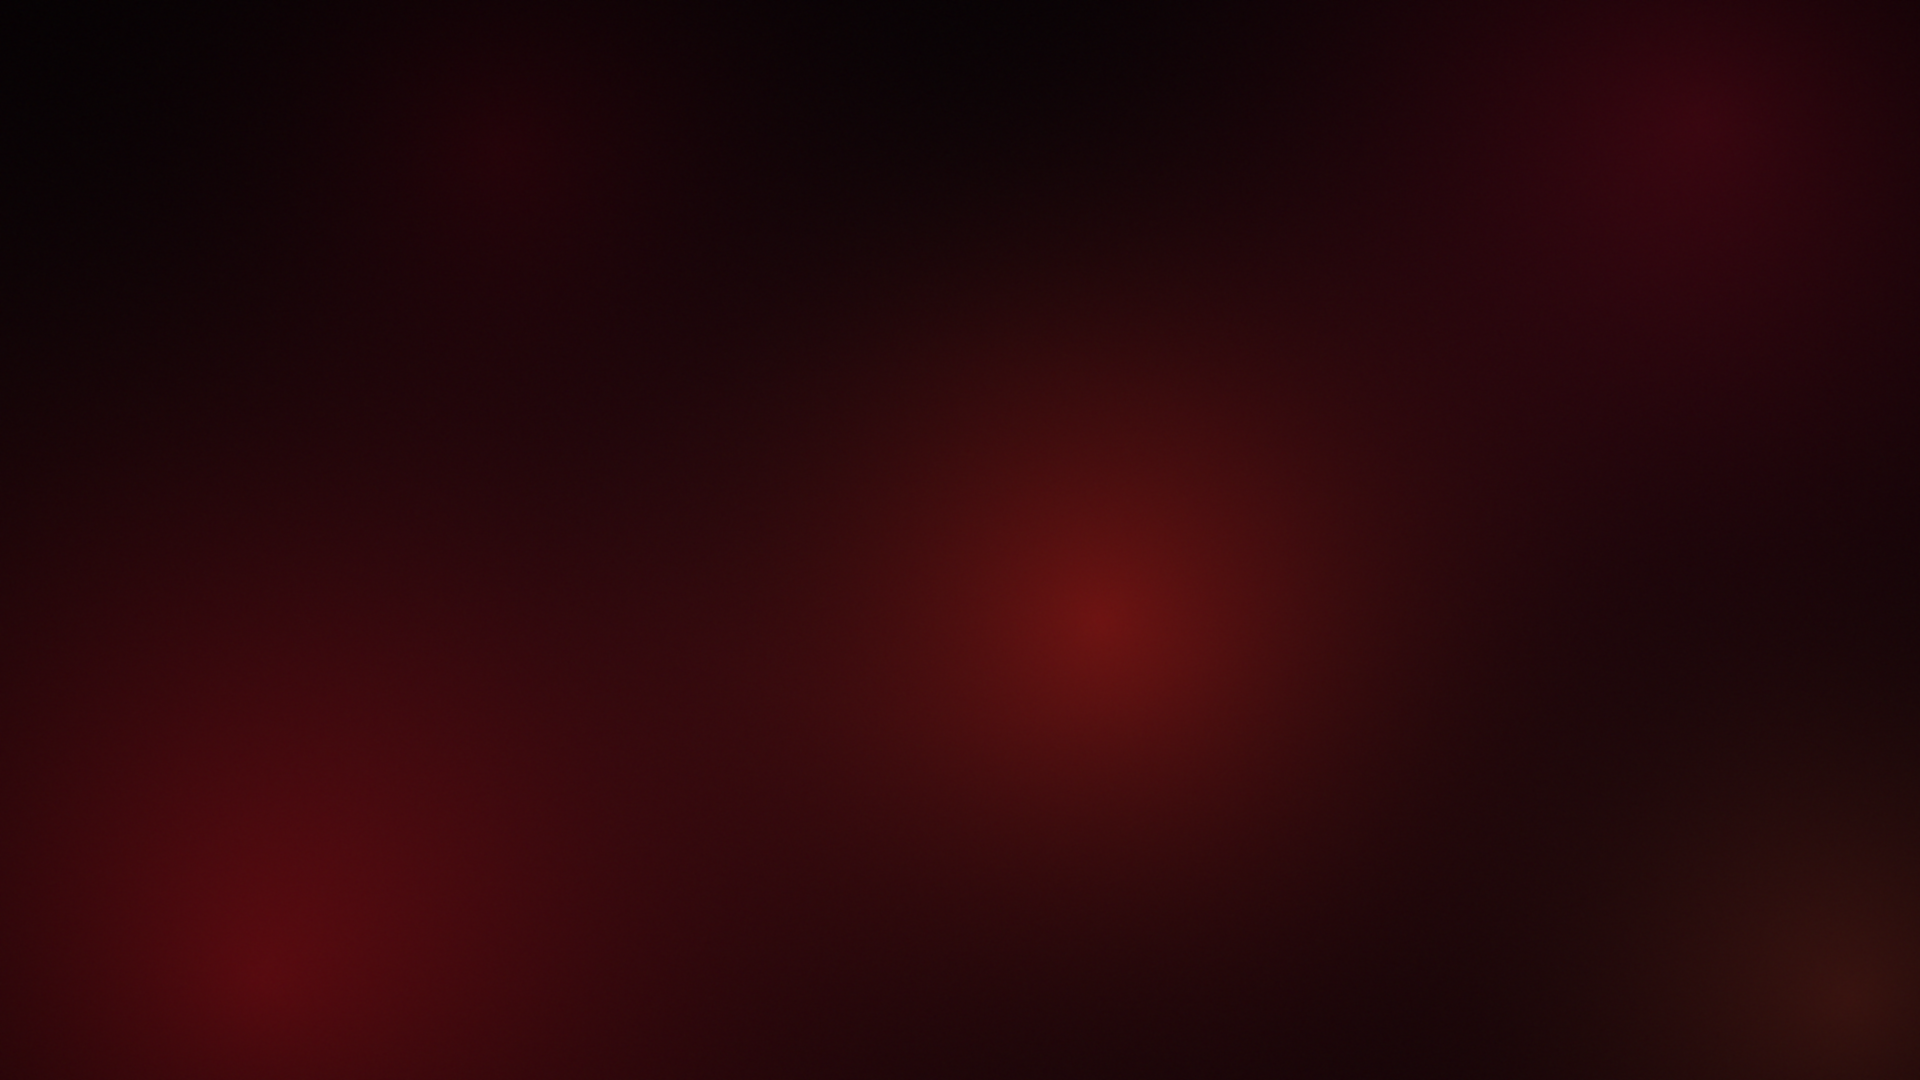
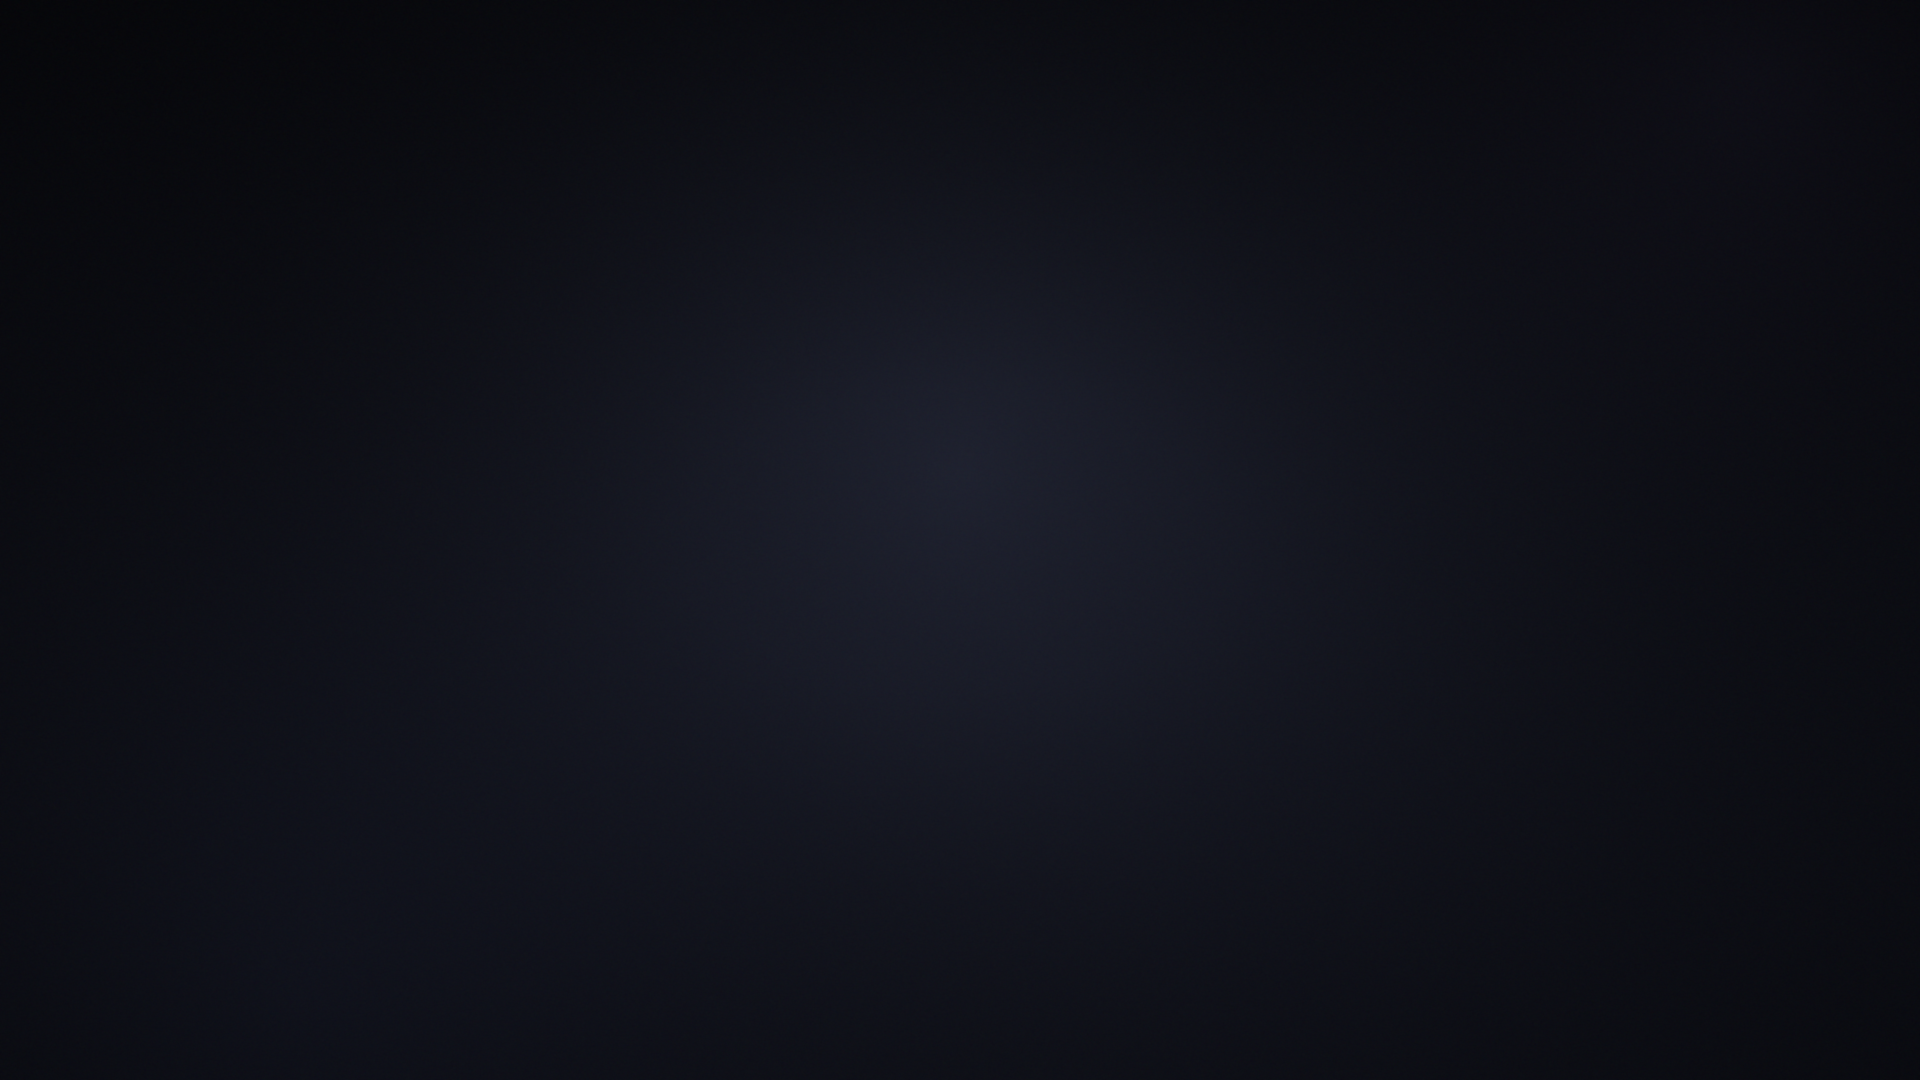
NX Dash: liquid glass pass - neutral base, ambient light from the focused cover, glass surfaces
Claude-Session: https://claude.ai/code/session_01B3bFgjuikRrFtWGhVbg4b7

diff --git a/projects/uMenu/source/ul/menu/ui/ui_EntryMenu.cpp b/projects/uMenu/source/ul/menu/ui/ui_EntryMenu.cpp
@@ -872,6 +872,17 @@ namespace ul::menu::ui {
         constexpr pu::ui::Color ShelfLabelColor = { 0xF4, 0xF2, 0xEE, 0xFF };
         constexpr pu::ui::Color ShelfTitleColor = { 0x14, 0x14, 0x14, 0xFF };
 
+        // Fake "liquid glass" (no realtime blur here): bright rim, tinted body, specular line on top
+        inline void RenderGlass(pu::ui::render::Renderer::Ref &drawer, const s32 x, const s32 y, const s32 w, const s32 h, const s32 r, const double k, const u8 body_alpha) {
+            const auto a = [&](const double v) { return (u8)std::clamp(v * k, 0.0, 255.0); };
+            drawer->RenderRoundedRectangleFill({ 0xFF, 0xFF, 0xFF, a(64.0) }, x - 1, y - 1, w + 2, h + 2, r + 1);
+            drawer->RenderRoundedRectangleFill({ 0x14, 0x16, 0x1E, a((double)body_alpha) }, x, y, w, h, r);
+            drawer->RenderRoundedRectangleFill({ 0xFF, 0xFF, 0xFF, a(16.0) }, x, y, w, h, r);
+            if(w > 2 * r + 8) {
+                drawer->RenderRectangleFill({ 0xFF, 0xFF, 0xFF, a(70.0) }, x + r, y + 1, w - 2 * r, 1);
+            }
+        }
+
         // Below this many games the shelf is a plain row (looping 2-3 cases looks broken)
         constexpr s32 ShelfLoopMin = 7;
 
@@ -1383,11 +1394,16 @@ namespace ul::menu::ui {
             // Focus ring
             if(o > 0.6) {
                 const auto ring = (u8)(255.0 * (o - 0.6) / 0.4);
-                drawer->RenderRoundedRectangleFill({ 0xFF, 0xFF, 0xFF, ring }, (s32)ex - 5, (s32)ey - 5, (s32)case_w + 10, (s32)case_h + 10, radius + 4);
+                drawer->RenderRoundedRectangleFill({ 0xFF, 0xFF, 0xFF, (u8)(ring * 0.10) }, (s32)ex - 14, (s32)ey - 14, (s32)case_w + 28, (s32)case_h + 28, radius + 13);
+                drawer->RenderRoundedRectangleFill({ 0xFF, 0xFF, 0xFF, (u8)(ring * 0.16) }, (s32)ex - 8, (s32)ey - 8, (s32)case_w + 16, (s32)case_h + 16, radius + 7);
+                drawer->RenderRoundedRectangleFill({ 0xFF, 0xFF, 0xFF, (u8)(ring * 0.92) }, (s32)ex - 2, (s32)ey - 2, (s32)case_w + 4, (s32)case_h + 4, radius + 2);
             }
 
             // Case body
             drawer->RenderRoundedRectangleFill(ShelfCaseColor, (s32)ex, (s32)ey, (s32)case_w, (s32)case_h, radius);
+            if(case_w > 2.0 * radius + 4.0) {
+                drawer->RenderRectangleFill({ 0xFF, 0xFF, 0xFF, 0x5A }, (s32)ex + radius, (s32)ey + 1, (s32)case_w - 2 * radius, 1);
+            }
 
             if(o > 0.35) {
                 // Cover: the icon as key art inside the case frame
@@ -1553,12 +1569,18 @@ namespace ul::menu::ui {
             s32 tx = left - shift;
             const auto ty = y + 18;
             const auto th = 56;
+            {
+                const auto cap_x = std::max(tx - 8, x + 60);
+                const auto cap_r = std::min(tx + total - 14 + 8, x + (s32)area_w - 60);
+                RenderGlass(drawer, cap_x, ty - 8, cap_r - cap_x, th + 16, (th + 16) / 2, 1.0, 120);
+            }
             for(u32 i = 0; i < this->shelf_cats.size(); i++) {
                 const auto w = widths.at(i);
                 const auto is_cur = (s32)i == this->shelf_cat;
                 if((tx + w > x) && (tx < x + (s32)area_w)) {
                     if(is_cur) {
-                        drawer->RenderRoundedRectangleFill({ 0xFF, 0xFF, 0xFF, 0x34 }, tx, ty, w, th, th / 2);
+                        drawer->RenderRoundedRectangleFill({ 0xFF, 0xFF, 0xFF, 0x3C }, tx, ty, w, th, th / 2);
+                        drawer->RenderRectangleFill({ 0xFF, 0xFF, 0xFF, 0x50 }, tx + th / 2, ty + 1, w - th, 1);
                     }
                     else {
                         // Quiet: no chip for the rest, just dimmer text
@@ -1806,7 +1828,7 @@ namespace ul::menu::ui {
         const s32 sw = pu::ui::render::ScreenWidth;
         const s32 sh = pu::ui::render::ScreenHeight;
 
-        drawer->RenderRectangleFill({ 0x0E, 0x04, 0x06, alpha(225.0) }, 0, 0, sw, sh);
+        drawer->RenderRectangleFill({ 0x06, 0x07, 0x0B, alpha(200.0) }, 0, 0, sw, sh);
 
         // Glass panel
         const auto pop = 0.95 + 0.05 * a;
@@ -1814,8 +1836,7 @@ namespace ul::menu::ui {
         const s32 ph = (s32)(780.0 * pop);
         const s32 px = (sw - pw) / 2;
         const s32 py = (sh - ph) / 2;
-        drawer->RenderRoundedRectangleFill({ 0xFF, 0xFF, 0xFF, alpha(34.0) }, px - 2, py - 2, pw + 4, ph + 4, 30);
-        drawer->RenderRoundedRectangleFill({ 0x22, 0x0E, 0x12, alpha(244.0) }, px, py, pw, ph, 28);
+        RenderGlass(drawer, px, py, pw, ph, 36, a, 205);
 
         // Game capture: zooms from full screen into the thumbnail
         const double tw = 960.0;
@@ -1826,13 +1847,13 @@ namespace ul::menu::ui {
         const auto ry = ty * a;
         const auto rw = sw + (tw - sw) * a;
         const auto rh = sh + (th - sh) * a;
-        drawer->RenderRoundedRectangleFill({ 0xFF, 0xFF, 0xFF, alpha(255.0) }, (s32)rx - 5, (s32)ry - 5, (s32)rw + 10, (s32)rh + 10, 14);
+        drawer->RenderRoundedRectangleFill({ 0xFF, 0xFF, 0xFF, alpha(90.0) }, (s32)rx - 2, (s32)ry - 2, (s32)rw + 4, (s32)rh + 4, 10);
         auto capture = GetScreenCaptureBackground()->GetTexture();
         if(capture != nullptr) {
             drawer->RenderTexture(capture, (s32)rx, (s32)ry, pu::ui::render::TextureRenderOptions(0xFF, (s32)rw, (s32)rh, {}, {}, {}));
         }
         else {
-            drawer->RenderRectangleFill({ 0x3A, 0x14, 0x18, 0xFF }, (s32)rx, (s32)ry, (s32)rw, (s32)rh);
+            drawer->RenderRectangleFill({ 0x1C, 0x1E, 0x28, 0xFF }, (s32)rx, (s32)ry, (s32)rw, (s32)rh);
         }
         RenderTextFit(drawer, this->sheet_hint, tx, (s32)(ty + th + 44.0), tw, alpha(150.0), false);
 
@@ -1864,6 +1885,67 @@ namespace ul::menu::ui {
             this->sheet_hits.insert(this->sheet_hits.begin(), { (s32)i, (s32)cx0, oy, (s32)colw, row_h });
             oy += row_h + row_gap;
         }
+    }
+
+    // ---- Ambient light: the focused cover, blurred down to a wash of color behind the glass ----
+
+    void EntryMenu::RenderBackdrop(pu::ui::render::Renderer::Ref &drawer) {
+        if(!ShelfMode || this->amb_failed) {
+            return;
+        }
+
+        auto renderer = pu::ui::render::GetMainRenderer();
+        const auto has_focus = !this->shelf_valid.empty() && (this->cur_entry_idx < this->entry_icons.size());
+        if(has_focus && (((s32)this->cur_entry_idx != this->amb_idx) || (this->cur_path != this->amb_path))) {
+            auto icon = this->entry_icons.at(this->cur_entry_idx);
+            if((icon != nullptr) && (icon->Get() != nullptr)) {
+                // 256px icon -> 32x18: the downscale is the blur, the upscale smooths it
+                auto tex = SDL_CreateTexture(renderer, SDL_PIXELFORMAT_RGBA8888, SDL_TEXTUREACCESS_TARGET, 32, 18);
+                if((tex == nullptr) || (SDL_SetRenderTarget(renderer, tex) != 0)) {
+                    if(tex != nullptr) {
+                        SDL_DestroyTexture(tex);
+                    }
+                    SDL_SetRenderTarget(renderer, nullptr);
+                    this->amb_failed = true;
+                    return;
+                }
+                SDL_SetTextureAlphaMod(icon->Get(), 0xFF);
+                SDL_SetRenderDrawColor(renderer, 0, 0, 0, 0xFF);
+                SDL_RenderClear(renderer);
+                SDL_RenderCopy(renderer, icon->Get(), nullptr, nullptr);
+                SDL_SetRenderTarget(renderer, nullptr);
+                SDL_SetTextureBlendMode(tex, SDL_BLENDMODE_BLEND);
+
+                if(this->amb_prev != nullptr) {
+                    SDL_DestroyTexture(this->amb_prev);
+                }
+                this->amb_prev = this->amb_cur;
+                this->amb_cur = tex;
+                this->amb_fade = 0.0;
+                this->amb_idx = this->cur_entry_idx;
+                this->amb_path = this->cur_path;
+            }
+        }
+
+        this->amb_fade = std::min(1.0, this->amb_fade + 0.045);
+        const auto f = SmoothStep(this->amb_fade);
+        const double strength = 118.0;
+        const s32 sw = pu::ui::render::ScreenWidth;
+        const s32 sh = pu::ui::render::ScreenHeight;
+        // Oversized so the soft edges of the tiny texture stay off screen
+        const s32 ox = -sw / 8;
+        const s32 oy = -sh / 8;
+        const s32 ow = sw + sw / 4;
+        const s32 oh = sh + sh / 4;
+        if((this->amb_prev != nullptr) && (f < 1.0)) {
+            drawer->RenderTexture(this->amb_prev, ox, oy, pu::ui::render::TextureRenderOptions((u8)(strength * (1.0 - f)), ow, oh, {}, {}, {}));
+        }
+        if(this->amb_cur != nullptr) {
+            drawer->RenderTexture(this->amb_cur, ox, oy, pu::ui::render::TextureRenderOptions((u8)(strength * f), ow, oh, {}, {}, {}));
+        }
+        // Keep the top and bottom calm so the bars and text stay readable
+        drawer->RenderRectangleFill({ 0x06, 0x07, 0x0B, 0x50 }, 0, 0, sw, 150);
+        drawer->RenderRectangleFill({ 0x06, 0x07, 0x0B, 0x66 }, 0, sh - 260, sw, 260);
     }
 
 }

diff --git a/projects/uMenu/include/ul/menu/ui/ui_EntryMenu.hpp b/projects/uMenu/include/ul/menu/ui/ui_EntryMenu.hpp
@@ -165,6 +165,14 @@ namespace ul::menu::ui {
             std::map<std::string, s32> shelf_cat_pos;
             double shelf_vy = 0.0;
             double shelf_press = 0.0;
+
+            // ---- NX Dash: ambient light from the focused cover ----
+            SDL_Texture *amb_cur = nullptr;
+            SDL_Texture *amb_prev = nullptr;
+            double amb_fade = 1.0;
+            s32 amb_idx = -2;
+            std::string amb_path;
+            bool amb_failed = false;
             bool shelf_held = false;
             std::vector<pu::sdl2::Texture> shelf_tab_texts;
             std::vector<std::string> shelf_tab_names;
@@ -327,6 +335,7 @@ namespace ul::menu::ui {
             }
 
             void RenderOverlay(pu::ui::render::Renderer::Ref &drawer);
+            void RenderBackdrop(pu::ui::render::Renderer::Ref &drawer);
 
             inline bool IsMenuStart() {
                 return this->base_entry_idx_x == 0;
@@ -403,6 +412,25 @@ namespace ul::menu::ui {
             inline s32 GetHeight() override { return pu::ui::render::ScreenHeight; }
             void OnRender(pu::ui::render::Renderer::Ref &drawer, const s32 x, const s32 y) override {
                 this->menu->RenderOverlay(drawer);
+            }
+            void OnInput(const u64 keys_down, const u64 keys_up, const u64 keys_held, const pu::ui::TouchPoint touch_pos) override {}
+    };
+
+    // Draws the ambient light behind everything else (the entry menu is created later, hence the pointer)
+    class EntryMenuBackdrop : public pu::ui::elm::Element {
+        private:
+            EntryMenu::Ref *menu;
+        public:
+            EntryMenuBackdrop(EntryMenu::Ref *menu) : menu(menu) {}
+            PU_SMART_CTOR(EntryMenuBackdrop)
+            inline s32 GetX() override { return 0; }
+            inline s32 GetY() override { return 0; }
+            inline s32 GetWidth() override { return pu::ui::render::ScreenWidth; }
+            inline s32 GetHeight() override { return pu::ui::render::ScreenHeight; }
+            void OnRender(pu::ui::render::Renderer::Ref &drawer, const s32 x, const s32 y) override {
+                if((this->menu != nullptr) && (*this->menu != nullptr)) {
+                    (*this->menu)->RenderBackdrop(drawer);
+                }
             }
             void OnInput(const u64 keys_down, const u64 keys_up, const u64 keys_held, const pu::ui::TouchPoint touch_pos) override {}
     };

diff --git a/projects/uMenu/source/ul/menu/ui/ui_MainMenuLayout.cpp b/projects/uMenu/source/ul/menu/ui/ui_MainMenuLayout.cpp
@@ -693,6 +693,8 @@ namespace ul::menu::ui {
         this->menu_decrement_sfx = nullptr;
 
         // Load banners first
+        this->Add(EntryMenuBackdrop::New(&this->entry_menu));
+
         this->top_menu_default_bg = pu::ui::elm::Image::New(0, 0, TryFindLoadImageHandle("ui/Main/TopMenuBackground/Default"));
         this->top_menu_folder_bg = pu::ui::elm::Image::New(0, 0, TryFindLoadImageHandle("ui/Main/TopMenuBackground/Folder"));
         this->top_menu_app_bg = pu::ui::elm::Image::New(0, 0, TryFindLoadImageHandle("ui/Main/TopMenuBackground/Application"));
